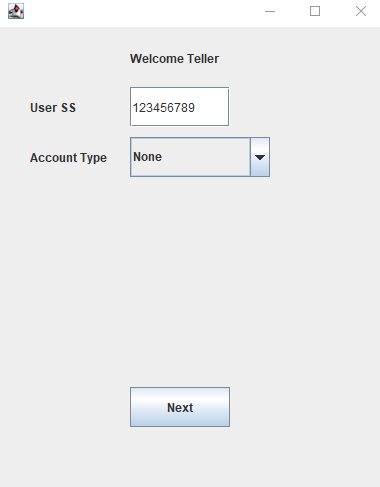
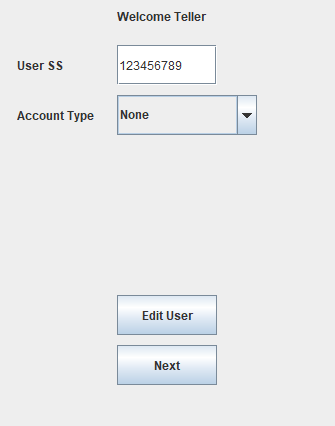
update screenshots

diff --git a/Menus/initTeller.java b/Menus/initTeller.java
@@ -40,7 +40,7 @@ import Accounts.Account;
     accountTypeDrop.setBounds(130,sectionTop+50,140, 40);//x axis, y axis, width, height 
     initTellerFrame.add(accountTypeDrop);//adding button in JFrame 
     
-    userEditButton.setBounds(130,sectionTop+300,100, 40);//x axis, y axis, width, height
+    userEditButton.setBounds(130,sectionTop+250,100, 40);//x axis, y axis, width, height
     userEditButton.addActionListener(this);
     initTellerFrame.dispose();
     initTellerFrame.add(userEditButton);//adding button in JFrame

diff --git a/main.java b/main.java
@@ -30,8 +30,6 @@ public class main {
                         Integer.parseInt(items[7])==1, formatter.parse(items[8])));
             }
             //open main Menu
-            Menu menu= new Menu();
-            menu.openMenu(accountList);
 
         } catch (Exception e) {
             e.printStackTrace();
